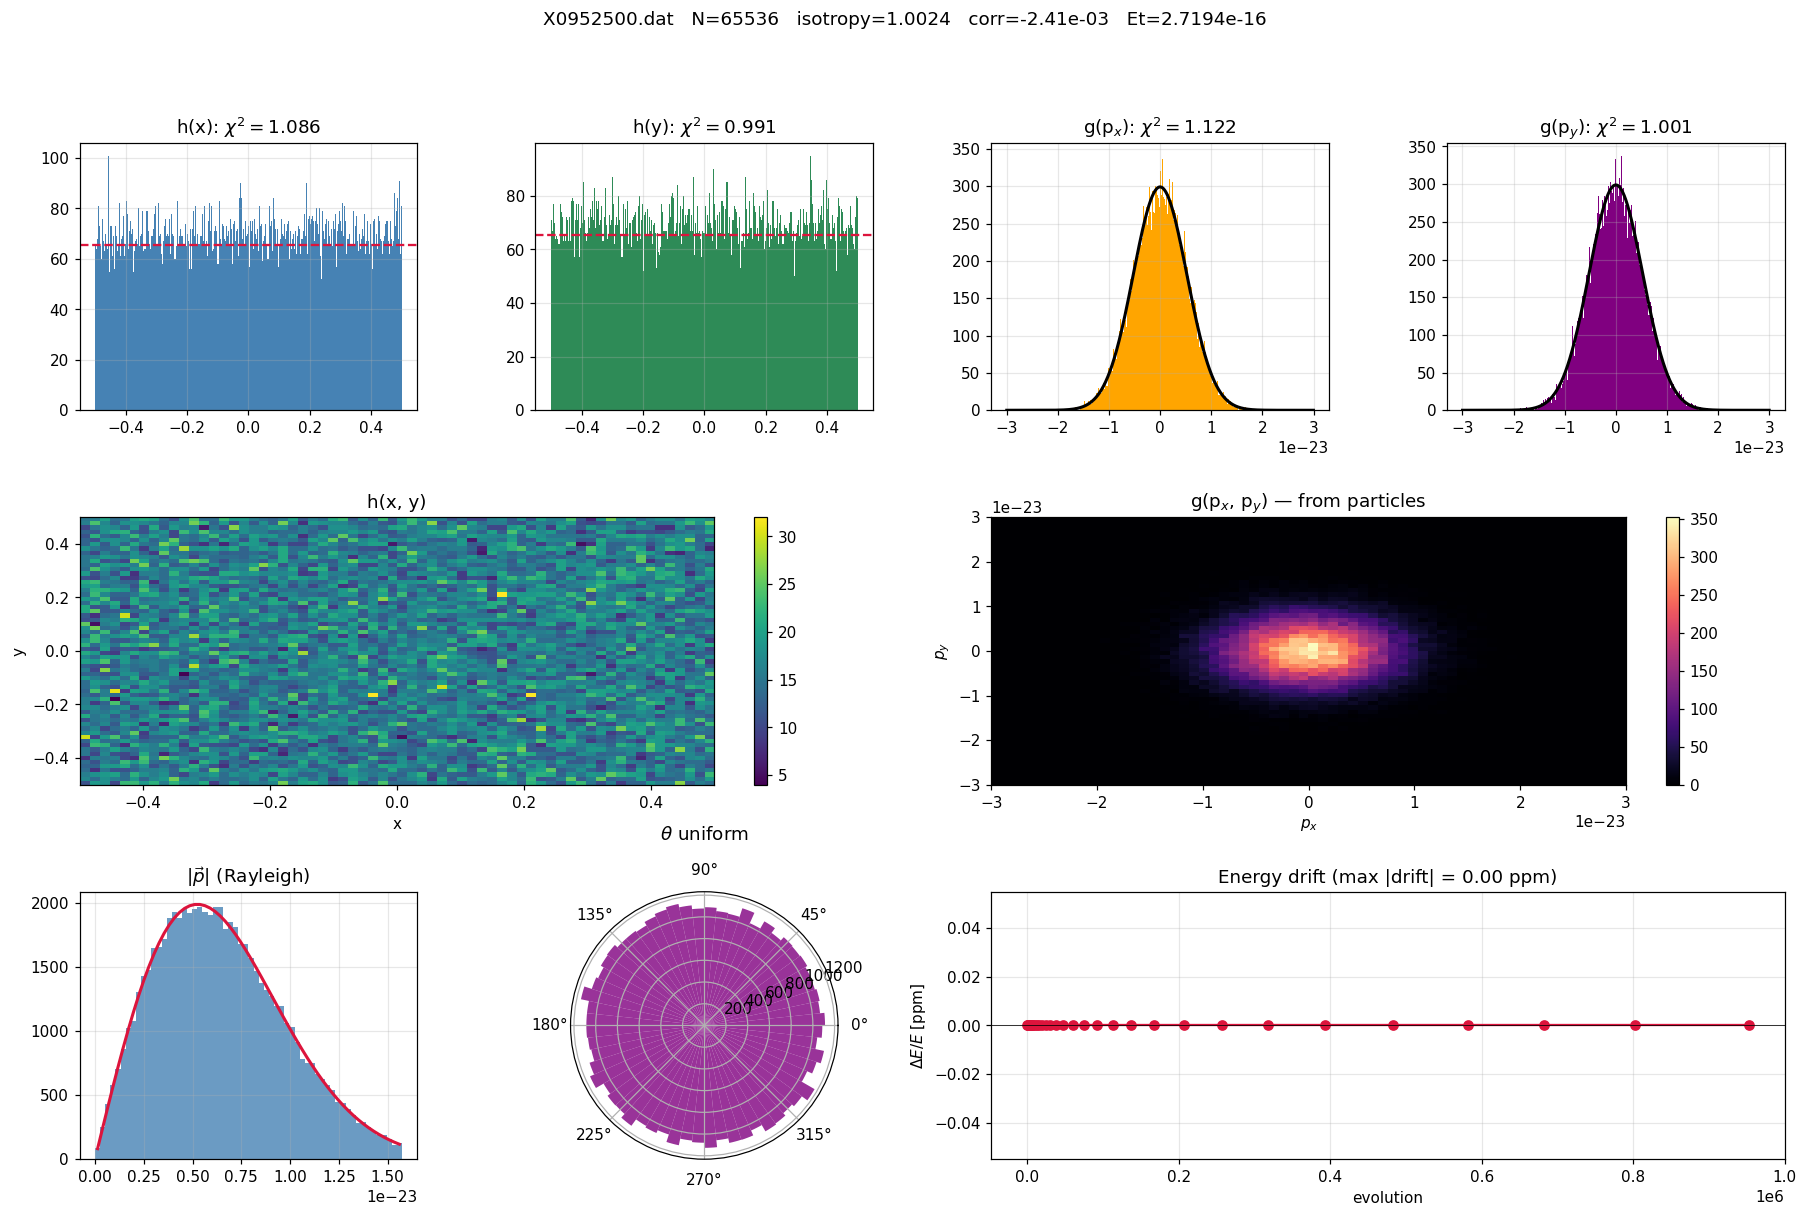
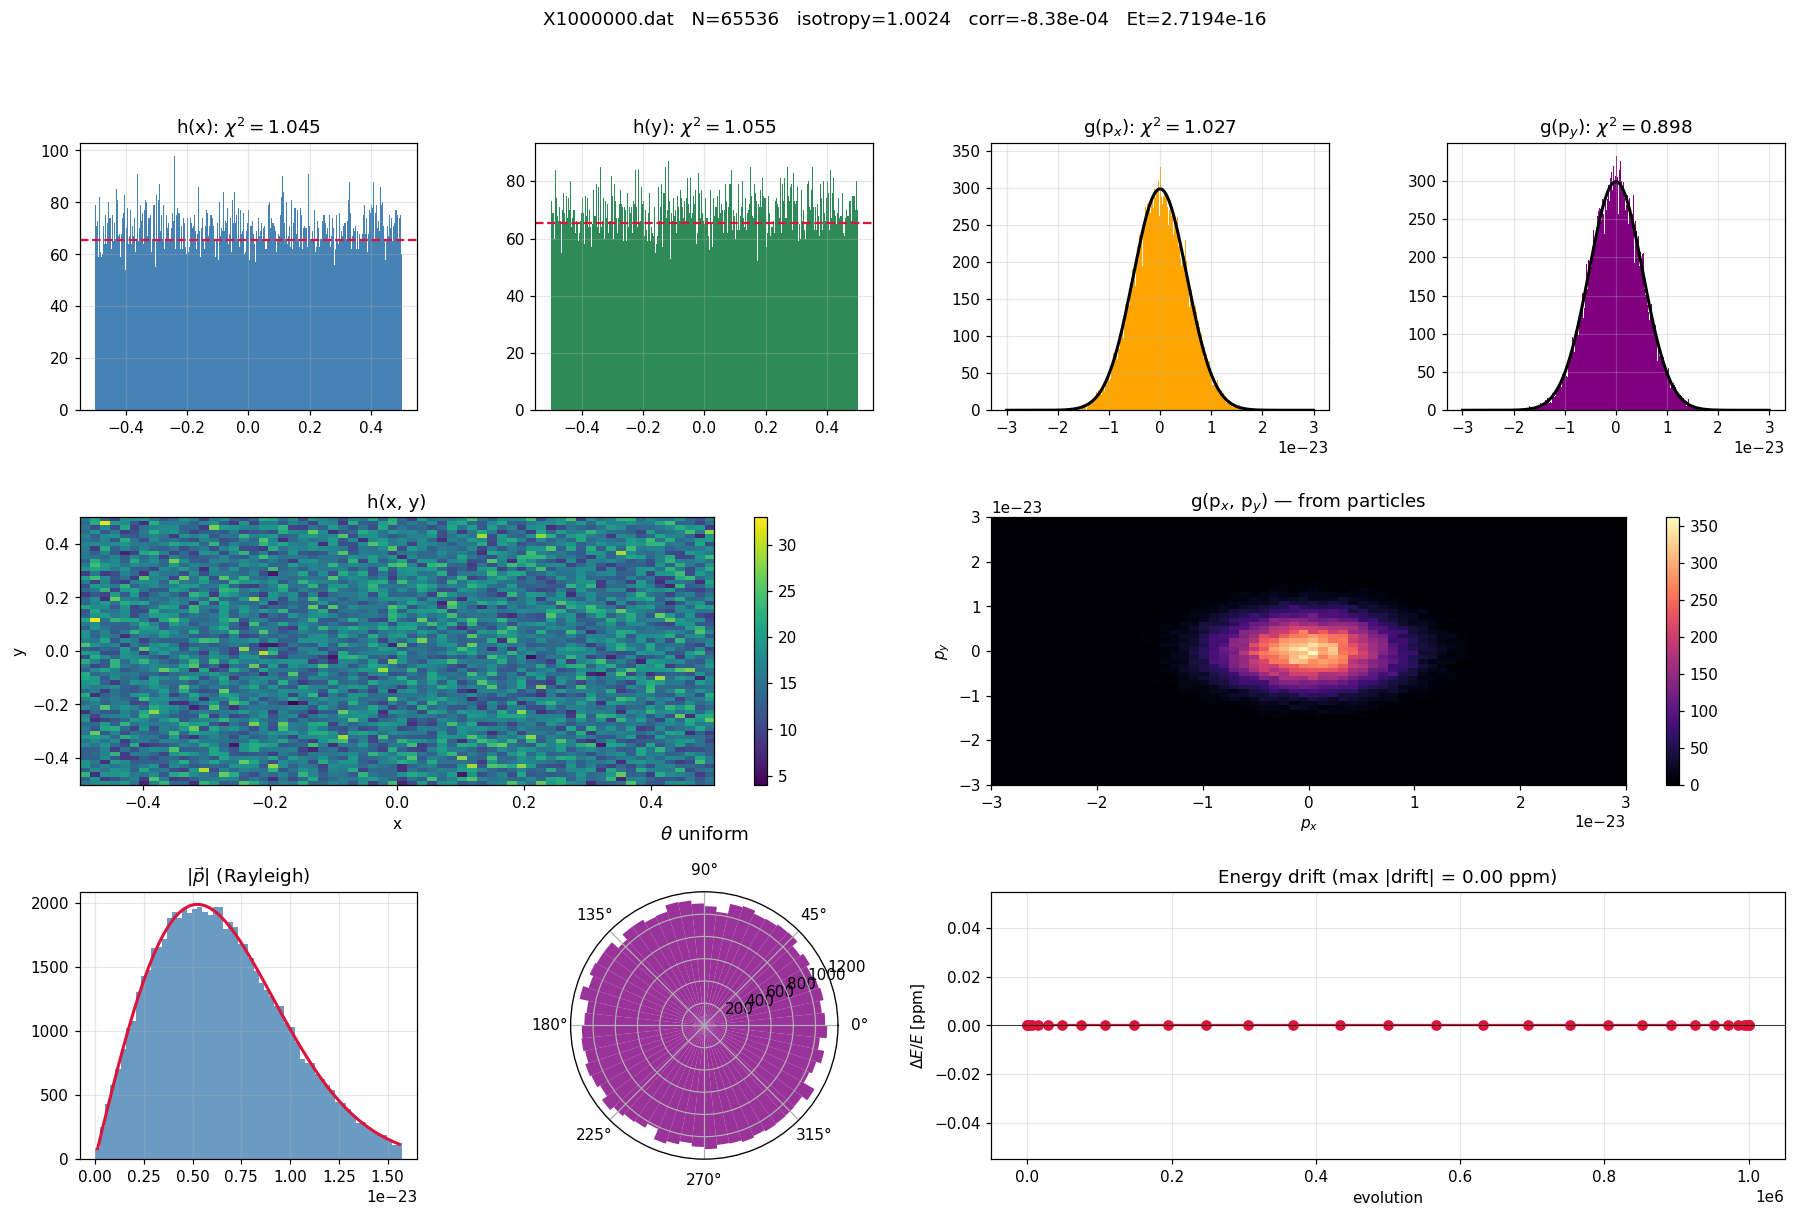
Cadencia campana + palíndromo: GIFs ida-y-vuelta, 60 frames smooth
Cadencia de snapshots:
  Antes: progresiva (chico al inicio, grande al final).
  Ahora: campana cos² (chico al inicio Y al final, grande en el medio).
  steps = [150, 1600, 4450, 8550, 13700, 19750, 26400, 33300, 40250,
           46850, 52900, 58100, 62200, 65000, 66450, 67150,
           65000, 62200, 58100, 52900, 46850, 40250, 33300, 26400,
           19750, 13700, 8550, 4450, 1600, 150]
  Total = 1 000 000 pasos. La densidad de snapshots se concentra en
  los extremos (lo visualmente interesante: salida y "retorno"); la
  fase de equilibrio en el medio se atraviesa con saltos grandes.

tools/animate.py:
  Nuevo flag --palindrome.
  Si está activo, después de los N frames originales agrega
  frames[N-2..1] (la secuencia al revés, sin duplicar los extremos).
  El GIF resulta perfectamente cíclico: ida-y-vuelta smooth.

  Justificación física: en el régimen periódico (alfa=0, sigma_l=0)
  la dinámica de Liouville es exactamente reversible. La animación
  ilustra esa reversibilidad. En el régimen relax con disipación, la
  "vuelta a la esquina" es ilustrativa (la Poincaré recurrence real
  requiere tiempos astronómicos para 65k partículas con momentos
  casi-incommensurables).

GIFs nuevos en docs/figures/ (8 archivos, 60 frames cada uno con
--duration 0.12s, total ~30 MB):
  anim_{joint,marginals,scatter,pscatter}_relax.gif
  anim_{joint,marginals,scatter,pscatter}_periodic.gif

Visualmente:
  Frame 0..15: salida desde la esquina
  Frame 15..30: equilibrio
[…]

diff --git a/tools/animate.py b/tools/animate.py
@@ -97,8 +97,10 @@ def cmd_joint(args):
         frames.append(render_frame_to_array(fig))
         plt.close(fig)
         print(f"  frame {i+1}/{len(snaps)}")
-    imageio.mimsave(args.output, frames, duration=args.duration, loop=0)
-    print(f"wrote {args.output} ({len(frames)} frames)")
+    out = maybe_palindrome(frames, args.palindrome)
+    imageio.mimsave(args.output, out, duration=args.duration, loop=0)
+    print(f"wrote {args.output} ({len(out)} frames"
+          + (" — palindrome on" if args.palindrome else "") + ")")
 
 
 def cmd_marginals(args):
@@ -165,8 +167,10 @@ def cmd_marginals(args):
         frames.append(render_frame_to_array(fig))
         plt.close(fig)
         print(f"  marginals frame {i+1}/{len(snaps)}")
-    imageio.mimsave(args.output, frames, duration=args.duration, loop=0)
-    print(f"wrote {args.output} ({len(frames)} frames)")
+    out = maybe_palindrome(frames, args.palindrome)
+    imageio.mimsave(args.output, out, duration=args.duration, loop=0)
+    print(f"wrote {args.output} ({len(out)} frames"
+          + (" — palindrome on" if args.palindrome else "") + ")")
 
 
 def cmd_scatter(args):
@@ -202,8 +206,10 @@ def cmd_scatter(args):
         frames.append(render_frame_to_array(fig))
         plt.close(fig)
         print(f"  scatter frame {i+1}/{len(snaps)}")
-    imageio.mimsave(args.output, frames, duration=args.duration, loop=0)
-    print(f"wrote {args.output}")
+    out = maybe_palindrome(frames, args.palindrome)
+    imageio.mimsave(args.output, out, duration=args.duration, loop=0)
+    print(f"wrote {args.output} ({len(out)} frames"
+          + (" — palindrome on" if args.palindrome else "") + ")")
 
 
 def cmd_pscatter(args):
@@ -238,14 +244,31 @@ def cmd_pscatter(args):
         frames.append(render_frame_to_array(fig))
         plt.close(fig)
         print(f"  pscatter frame {i+1}/{len(snaps)}")
-    imageio.mimsave(args.output, frames, duration=args.duration, loop=0)
-    print(f"wrote {args.output}")
+    out = maybe_palindrome(frames, args.palindrome)
+    imageio.mimsave(args.output, out, duration=args.duration, loop=0)
+    print(f"wrote {args.output} ({len(out)} frames"
+          + (" — palindrome on" if args.palindrome else "") + ")")
+
+
+def maybe_palindrome(frames, palindrome: bool):
+    """If palindrome, return frames + frames[-2:0:-1] so the GIF plays
+    forward then backward, smoothly returning to the initial state.
+    Visually illustrates the time-reversibility of the periodic regime.
+    Skips the very first/last frames to avoid duplication. """
+    if not palindrome:
+        return frames
+    if len(frames) < 3:
+        return frames
+    return frames + frames[-2:0:-1]
 
 
 def main():
     ap = argparse.ArgumentParser(description="2D event-driven animation toolkit")
     ap.add_argument("--duration", type=float, default=0.5,
                     help="seconds per frame (default 0.5)")
+    ap.add_argument("--palindrome", action="store_true",
+                    help="play forwards then backwards so the GIF returns "
+                         "to the initial state (illustrates time reversibility)")
     sub = ap.add_subparsers(dest="cmd", required=True)
 
     p = sub.add_parser("joint")

diff --git a/docs/figures/README.md b/docs/figures/README.md
@@ -70,8 +70,32 @@ Scatter del estado inicial — vista clara del cuadrante poblado:
 ## 2. Régimen de relajación — difusión hasta equilibrio
 
 **Configuración**: $N = 65\,536$, $\alpha = 10^{-4}$, $\sigma_L = 10^{-4}$,
-30 batches con cadencia progresiva (500 pasos al inicio, 150 000 al
-final, total 952 500 pasos).
+30 batches con **cadencia tipo campana** (densidad de snapshots como
+$\cos^2$):
+
+```python
+steps = [150, 1600, 4450, 8550, 13700, 19750, 26400, 33300, 40250, 46850,
+         52900, 58100, 62200, 65000, 66450, 67150,
+         65000, 62200, 58100, 52900, 46850, 40250, 33300, 26400, 19750,
+         13700, 8550, 4450, 1600, 150]
+# total = 1 000 000 pasos = ~0.44 s simulados
+```
+
+> 📊 **Cadencia tipo campana**: pocos pasos al principio (snapshots
+> finos en el momento más visualmente interesante: la difusión inicial
+> desde la esquina), muchos pasos en el medio (rápido salto sobre la
+> fase de equilibrio "aburrida"), y otra vez pocos pasos al final
+> (preparación visual para el ciclo de retorno via `--palindrome`).
+
+> 🔁 **Animaciones con `--palindrome`**: los GIFs reproducen primero
+> los 30 snapshots de ida (esquina → equilibrio) y después los mismos
+> 30 al revés (equilibrio → esquina). Esto **ilustra visualmente la
+> reversibilidad temporal** del régimen periódico (ver §3) — la
+> dinámica de Liouville con $\alpha = \sigma_L = 0$ es exactamente
+> reversible. En el régimen relax con disipación, la "vuelta a la
+> esquina" es **una ilustración**, no algo que ocurre realmente
+> (Poincaré recurrence requiere tiempos astronómicos para $N = 65\,536$
+> partículas con momentos casi-incommensurables).
 
 ### Animación: todas las partículas saliendo de la esquina
 
@@ -141,8 +165,8 @@ se mantiene.
 
 ## 3. Régimen periódico — dinámica determinista, $\alpha = \sigma_L = 0$
 
-**Configuración**: misma cadencia y $N$ que relax, **pero con
-$\alpha = 0, \sigma_L = 0$**. Las consecuencias físicas:
+**Configuración**: misma cadencia campana y mismo $N$ que relax,
+**pero con $\alpha = 0, \sigma_L = 0$**. Las consecuencias físicas:
 
 - **Sin perturbación tangencial** ($\sigma_L = 0$): cada rebote es
   perfectamente especular ($p_\perp \mapsto -p_\perp$, sin ruido).
@@ -222,25 +246,26 @@ relajación la nube se reorganiza, en periódico está congelada.
 
 ## Comandos para reproducir todo
 
-Configs en `/tmp/demo_relax.toml` y `/tmp/demo_periodic.toml`
-(reproducidos al pie del primer commit que generó las figuras). Una
-vez compilado:
+Una vez compilado:
 
 ```bash
-# Régimen relax con cadencia progresiva (~0.3 s wall):
-mkdir -p /tmp/demo_relax && cd /tmp/demo_relax
-SIM_SEED=42 OMP_NUM_THREADS=8 .../main-event config.toml
+# Configs ya armadas en tests/config.{verify.relax, verify.periodic}.toml.
+# Para los demos visuales, usar la cadencia campana del bloque al inicio
+# de §2 (steps = [150, 1600, ..., 150]) en un config con keep_snapshots=true.
 
-# Régimen periódico (sólo cambia alfa y sigma_l a 0):
-mkdir -p /tmp/demo_periodic && cd /tmp/demo_periodic
-SIM_SEED=42 OMP_NUM_THREADS=8 .../main-event config.toml
+mkdir -p /tmp/demo_relax && cp <config> /tmp/demo_relax/config.toml
+cd /tmp/demo_relax && SIM_SEED=42 OMP_NUM_THREADS=8 .../main-event config.toml
 
-# Dashboards
-.../tools/plot dashboard X0952500.dat --dump graba.dmp.0952500 -o dashboard.png
+# Static plots
+.../tools/plot dashboard <ultimo X*.dat> --dump <ultimo graba.dmp.*> -o dashboard.png
+.../tools/plot {marginals,joint,radial,angular,scatter,energy} ...
 
-# Animaciones (--duration en segundos por frame)
-.../tools/animate --duration 0.18 joint     /tmp/demo_relax    -o anim_joint.gif
-.../tools/animate --duration 0.18 marginals /tmp/demo_relax    -o anim_marginals.gif
-.../tools/animate --duration 0.18 scatter   /tmp/demo_relax    -o anim_scatter.gif
-.../tools/animate --duration 0.18 pscatter  /tmp/demo_relax    -o anim_pscatter.gif
+# Animaciones con --palindrome (ida-y-vuelta, 60 frames):
+.../tools/animate --duration 0.12 --palindrome joint     /tmp/demo_relax -o anim_joint.gif
+.../tools/animate --duration 0.12 --palindrome marginals /tmp/demo_relax -o anim_marginals.gif
+.../tools/animate --duration 0.12 --palindrome scatter   /tmp/demo_relax -o anim_scatter.gif
+.../tools/animate --duration 0.12 --palindrome pscatter  /tmp/demo_relax -o anim_pscatter.gif
+
+# Sin palíndromo (sólo ida, 30 frames):
+.../tools/animate --duration 0.18 joint /tmp/demo_relax -o anim_joint_oneshot.gif
 ```
